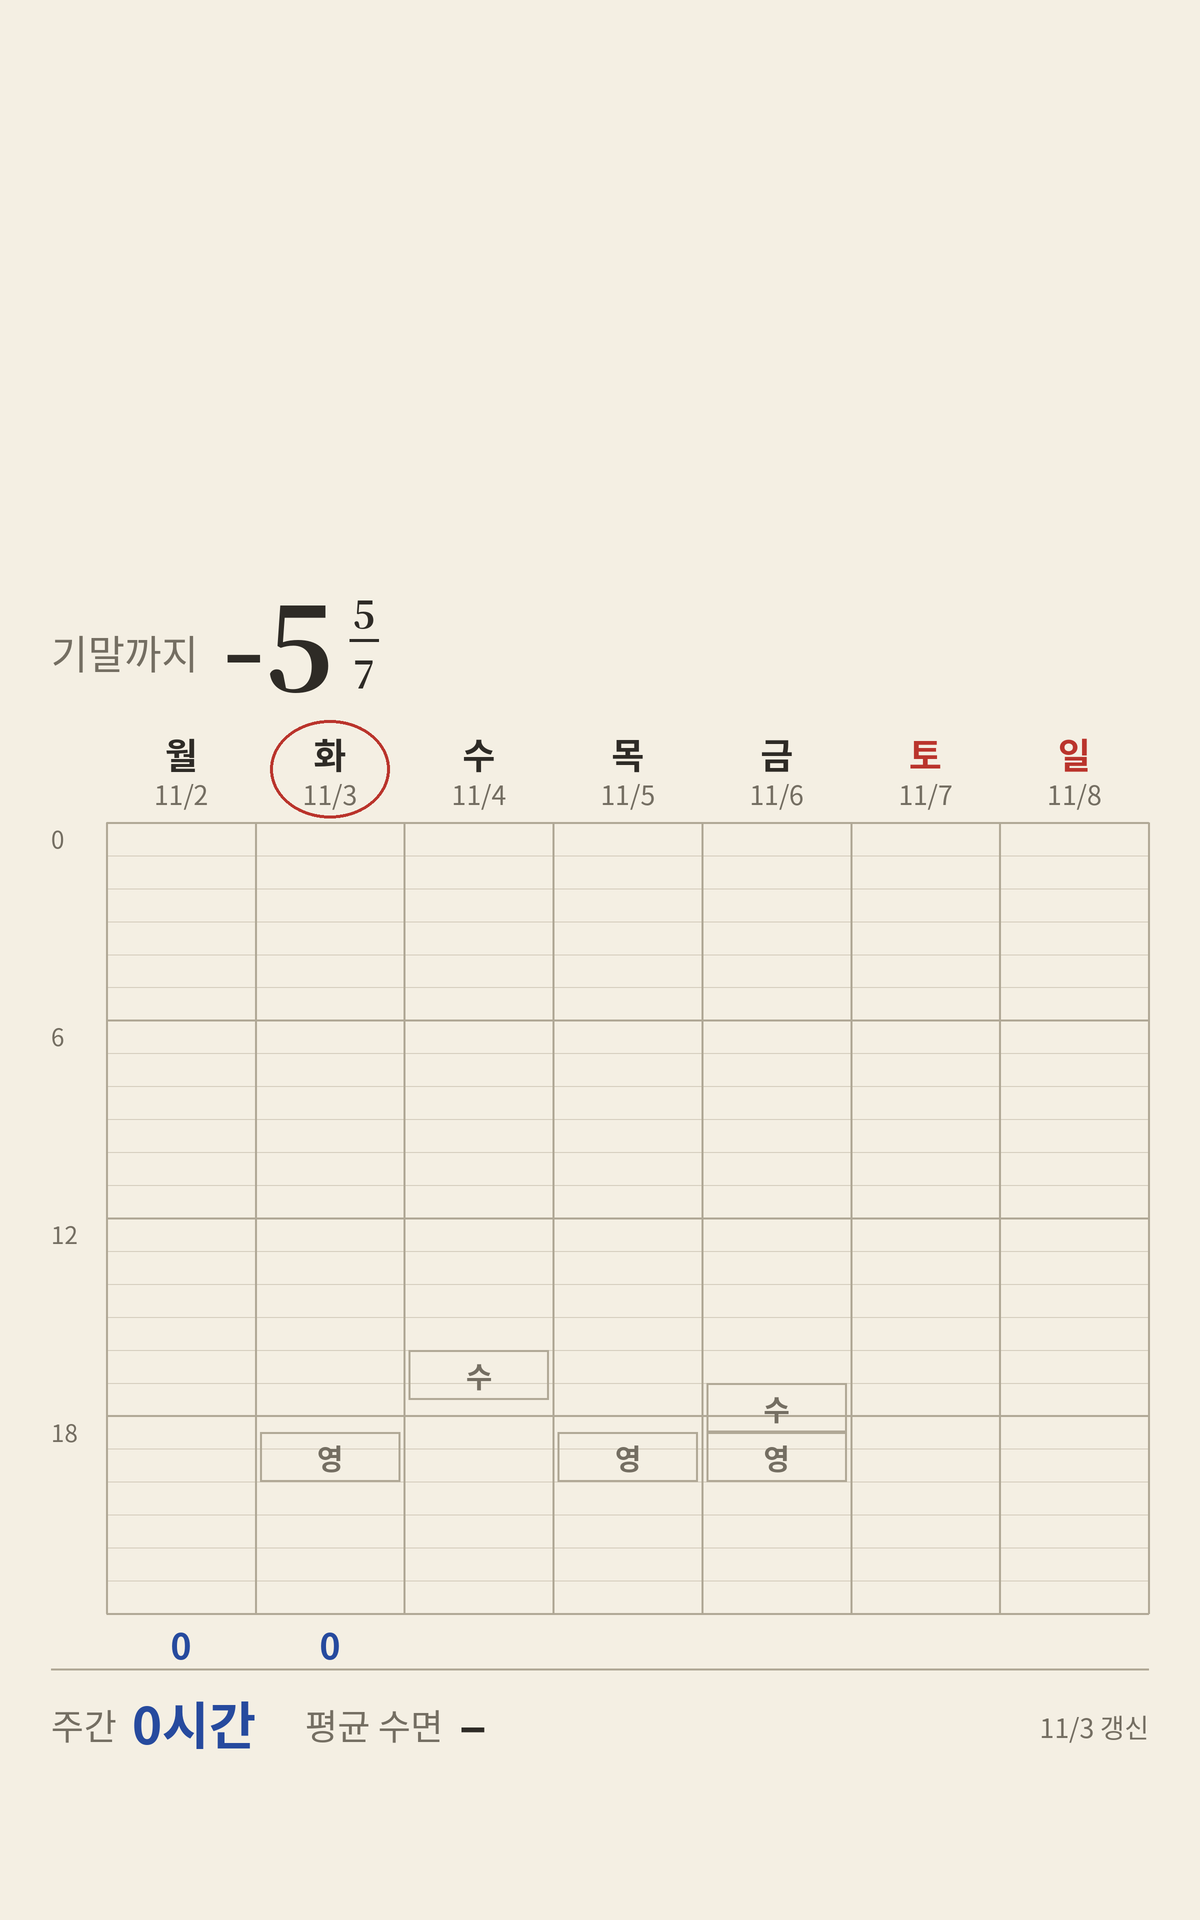
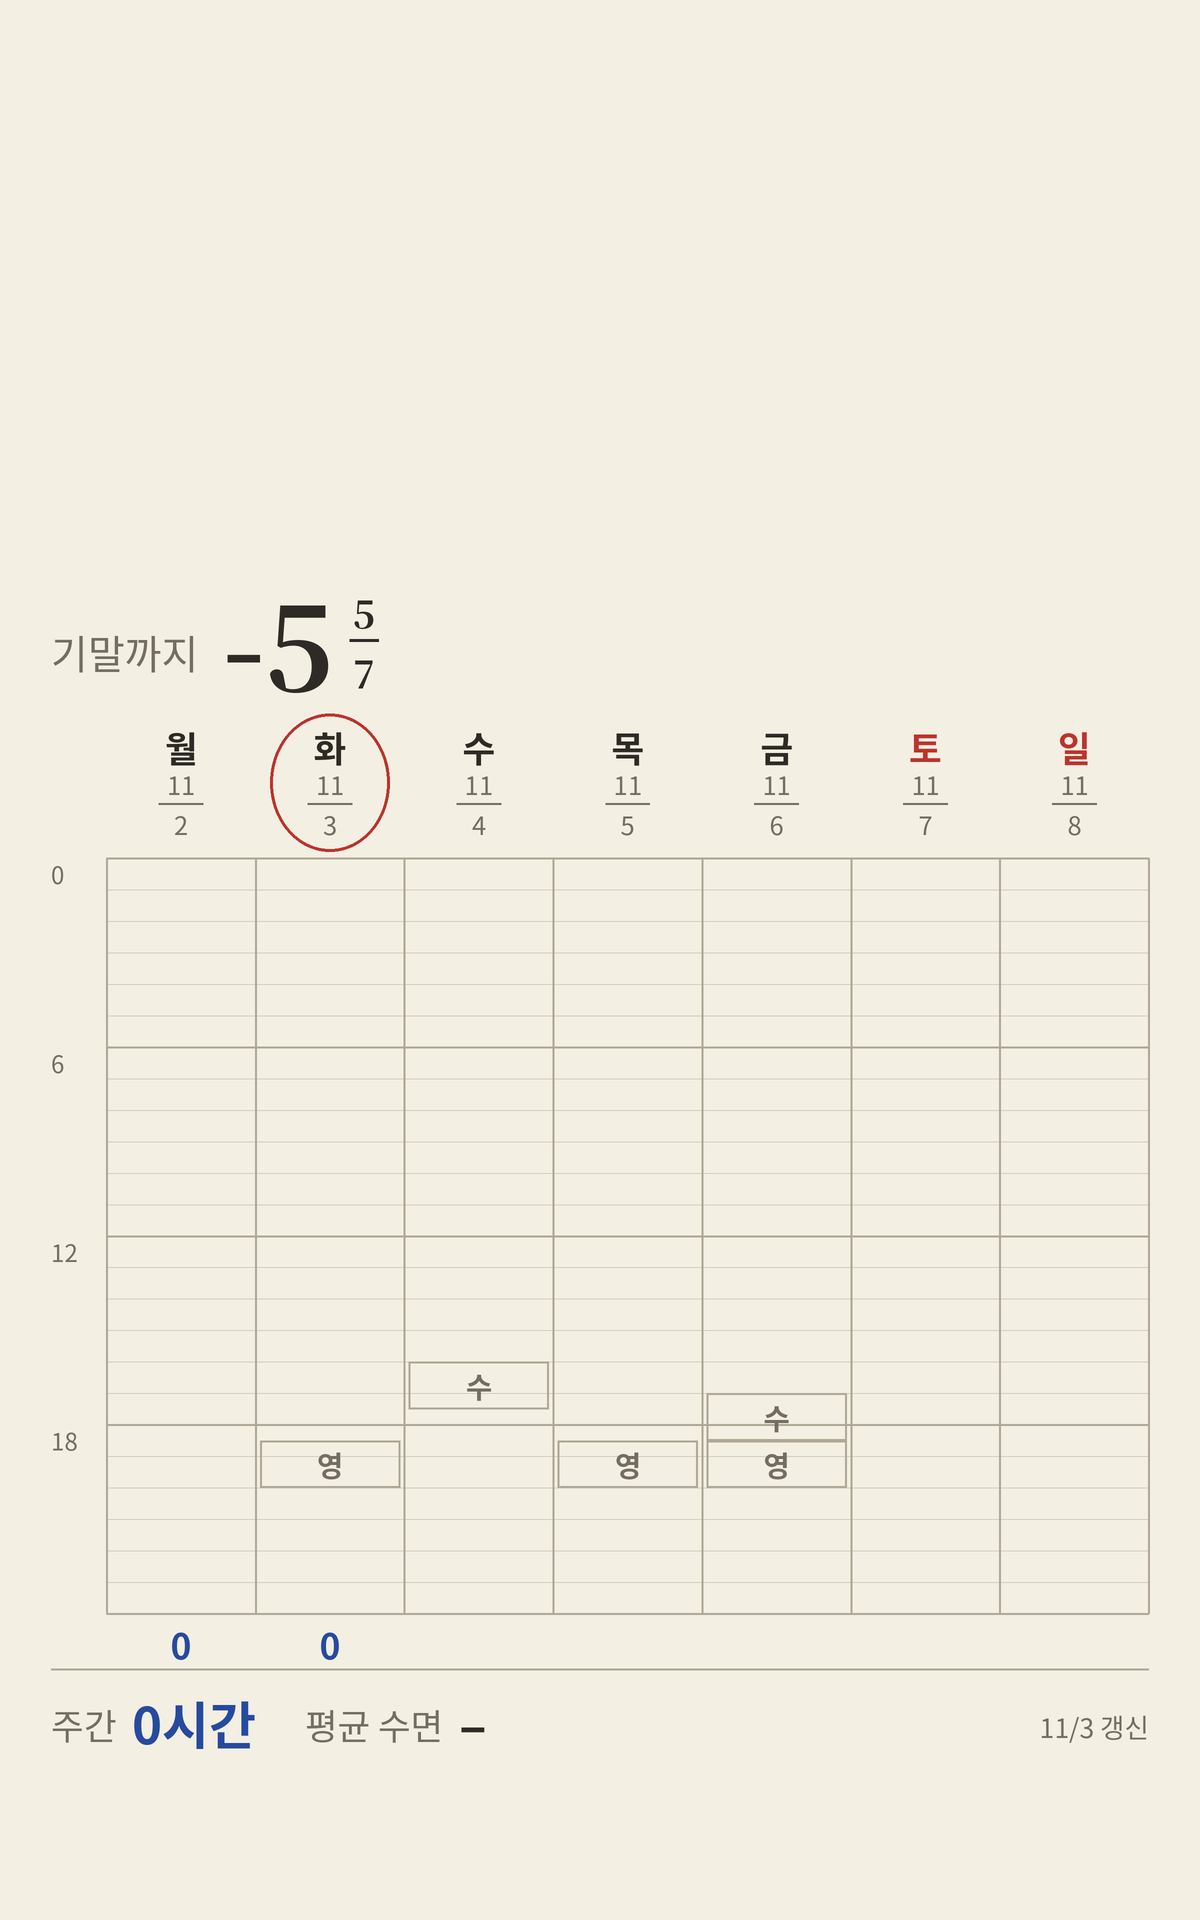
Show dates as stacked fractions
Claude-Session: https://claude.ai/code/session_016sgH3U9eL8kEJgSR4TfZt2

diff --git a/make.py b/make.py
@@ -129,18 +129,22 @@ def draw(data, today, W, H, out):
 
     monday = today - datetime.timedelta(days=today.weekday())
     dates = [monday + datetime.timedelta(days=i) for i in range(7)]
-    f_head, f_date = font(BOLD, int(32 * u)), font(SANS, int(24 * u))
+    f_head, f_date = font(BOLD, int(32 * u)), font(SANS, int(23 * u))
     for i, d in enumerate(dates):
         cx = grid_l + col * (i + 0.5)
-        name, md = WD[i], f"{d.month}/{d.day}"
+        name = WD[i]
         color = RED if i >= 5 else INK
-        g.text((cx - text_w(g, name, f_head) / 2, y), name, font=f_head, fill=color)
-        g.text((cx - text_w(g, md, f_date) / 2, y + 42 * u), md, font=f_date, fill=INK_SOFT)
+        g.text((cx - text_w(g, name, f_head) / 2, y - 6 * u), name, font=f_head, fill=color)
+        # 날짜는 노트의 분수처럼 월을 위, 일을 아래에 적는다.
+        mo, da = str(d.month), str(d.day)
+        g.text((cx - text_w(g, mo, f_date) / 2, y + 34 * u), mo, font=f_date, fill=INK_SOFT)
+        g.line((cx - 20 * u, y + 69 * u, cx + 20 * u, y + 69 * u), fill=INK_SOFT, width=max(2, int(2 * u)))
+        g.text((cx - text_w(g, da, f_date) / 2, y + 70 * u), da, font=f_date, fill=INK_SOFT)
         if d == today:
-            r_x, r_y = col * 0.40, 44 * u
-            g.ellipse((cx - r_x, y + 38 * u - r_y, cx + r_x, y + 38 * u + r_y),
+            r_x, r_y = col * 0.40, 62 * u
+            g.ellipse((cx - r_x, y + 50 * u - r_y, cx + r_x, y + 50 * u + r_y),
                       outline=RED, width=max(2, int(3 * u)))
-    top = y + 86 * u
+    top = y + 118 * u
 
     foot_h = 96 * u
     total_h = 50 * u
